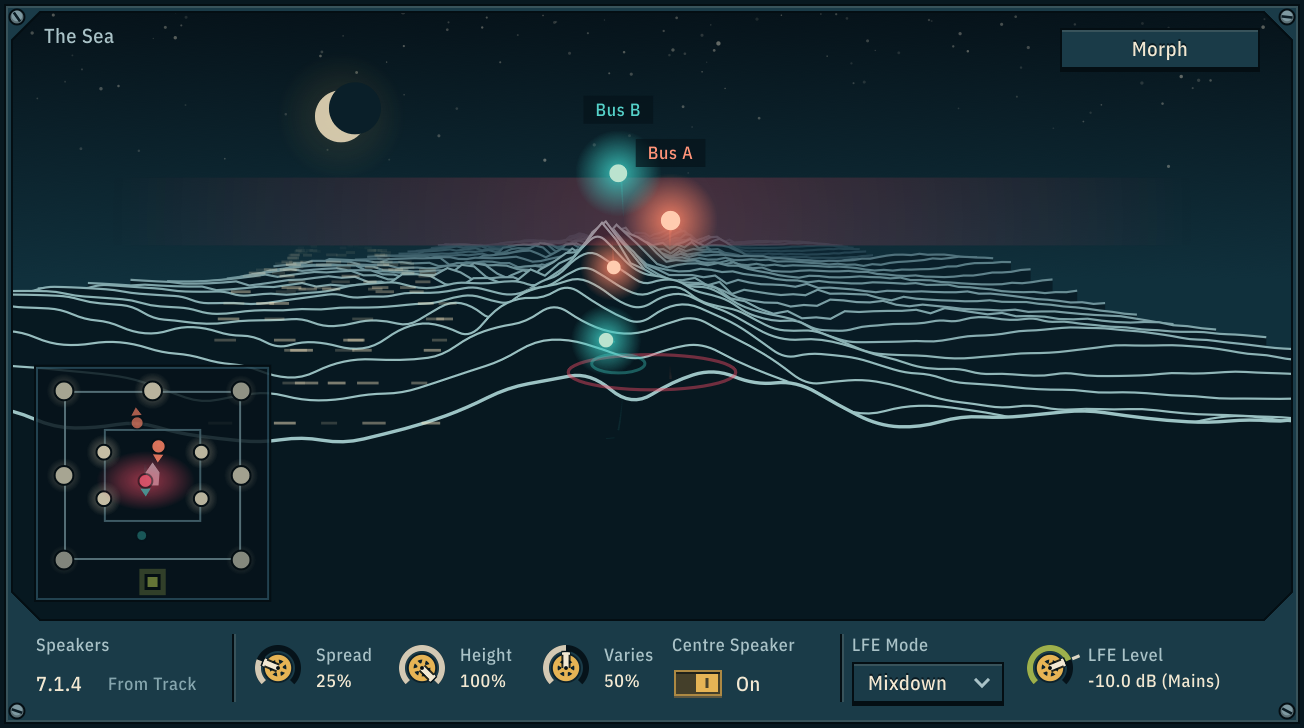
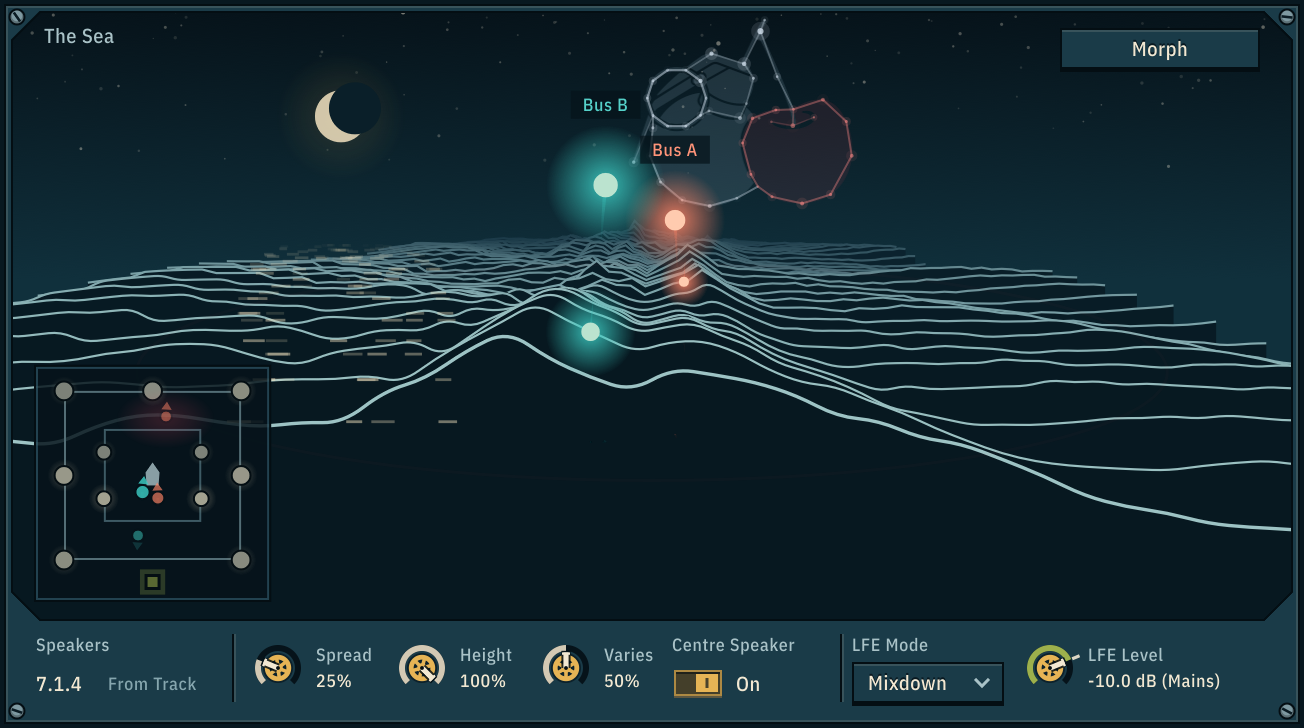
Swooshbuckler: the manual's main picture is the window at 7.1.4, hits landing with their pass

diff --git a/swooshbuckler/tools/UiShot.cpp b/swooshbuckler/tools/UiShot.cpp
@@ -323,6 +323,20 @@ namespace
                     shots.crop(window, "room-strip", ed.m_sea.getBounds().withTop(ed.m_roomStrip.getY() - 16), 2);
                     shots.crop(window, "output-room", ed.m_sections[3].bounds, 2);
                 }
+                // The manual's main picture: the window at 7.1.4 with both buses flying, the hits landing with their
+                // pass, every speaker meter moving, the plan of the room lit and the mark in the stars. It replaces
+                // the Stereo window shot above (the crops already taken from that one stay Stereo).
+                {
+                    set(ParamIDs::hitAim, 0.0f);
+                    set(ParamIDs::gateMode, 3.0f); // Open: the hits sound, so they glow on the plan
+                    set(ParamIDs::hitPosition, static_cast<float>(ParamIDs::HitWithPass));
+                    ed.m_sea.showConstellation(true);
+                    rig.run(2.0);
+                    shots.shoot("screenshot");
+                    ed.m_sea.showConstellation(false);
+                    for (auto* id : { ParamIDs::hitAim, ParamIDs::gateMode, ParamIDs::hitPosition })
+                        proc.getState().getParameter(id)->setValueNotifyingHost(proc.getState().getParameter(id)->getDefaultValue());
+                }
                 paths(2); // Overhead: the tops light on the plan
                 rig.run(2.4);
                 {
